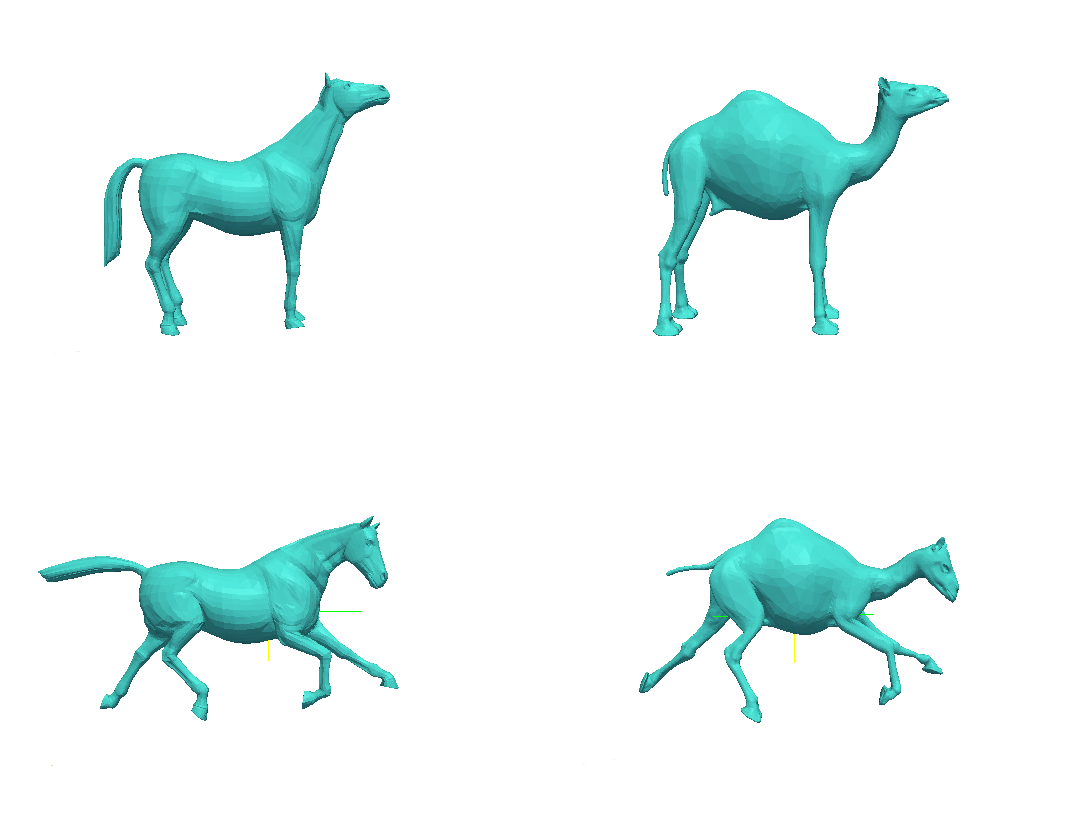
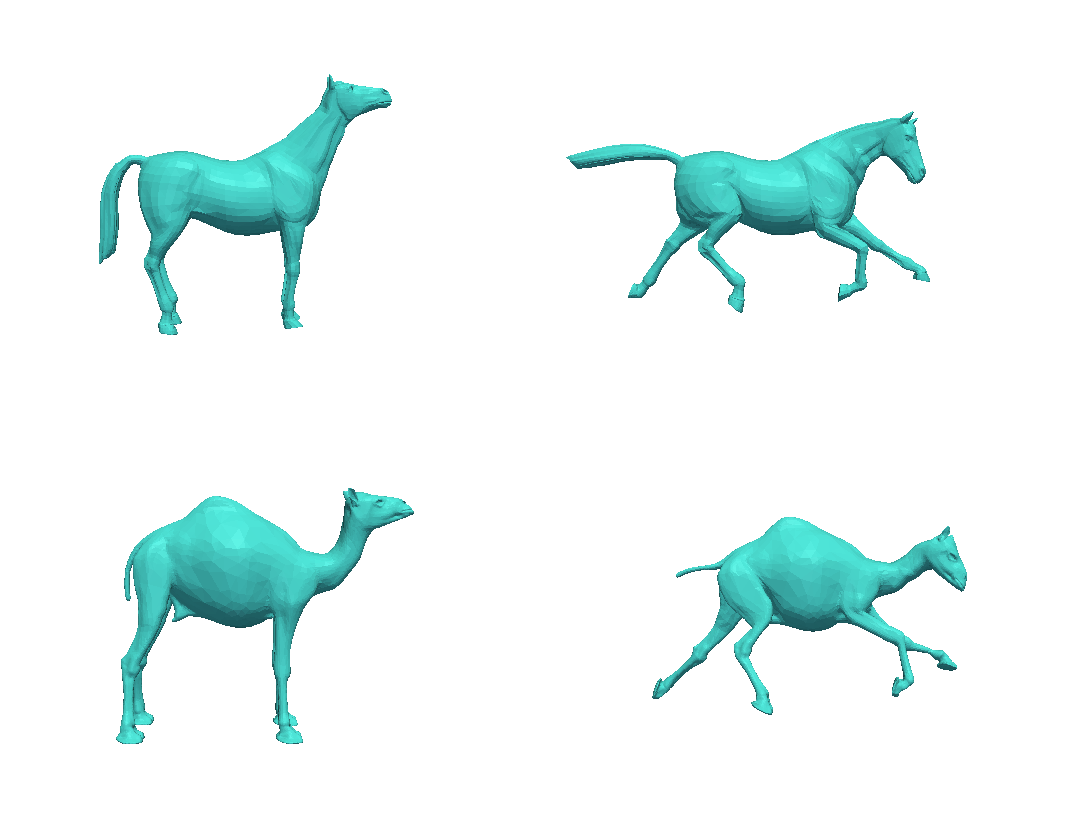
use smaller size images for README

diff --git a/README.md b/README.md
@@ -8,36 +8,36 @@ It's just a spare-time project of my own, consisting of full/partial implementat
 
 [2014-04-18] Implement calculating Green Coordinates in 2D for points inside cage, and slight modification of GC for exterior and boundary points will be included in future, as well as Green Coordinates in 3D.
 
-![image] (/img/green_2d.png)
+![image] (/img/half_size/green_2d.png)
 
 [2015-04-20] Finish Green Coordinates in 3D and up till now [[Lipman08]](http://citeseerx.ist.psu.edu/viewdoc/download?doi=10.1.1.150.2116&rep=rep1&type=pdf) is partially reproducted. The computation for GC  of exterior points of cage may be  included in future, which allows for controlling deformation using a partial cage.
 
-![image] (/img/green_3d.png)
+![image] (/img/half_size/green_3d.png)
 
 [2015-05-22] Partially implement [[Funck06]](https://isgwww.cs.uni-magdeburg.de/visual/files/publications/Archive/Funck_2006_SIGGRAPH.pdf). More modeling metaphors may be included in future.
 
-![image] (/img/vec_deform.png)
+![image] (/img/half_size/vec_deform.png)
 
 [2015-05-27] Implement twisting and bending effects based on vector field.
 
 [2015-06-13] Implement frame-driven deformation proposed by [[Panozzo14]](http://igl.ethz.ch/projects/frame-fields/frame-fields.pdf). The other part about frame-field aligned quadrangulation may included later, which consistis of processes to paramterize and remesh the deformed surface for obtaining a uniform quadrilateral mesh.
 
-![image] (/img/frame_field_deform.png)
+![image] (/img/half_size/frame_field_deform.png)
 
 [2015-06-25] Implement deformation transfer for triangle meshes [[Sumner04]](http://people.csail.mit.edu/sumner/research/deftransfer/Sumner2004DTF.pdf), which uses gradient based deformation method.
 
-![image] (/img/deformation_transfer.png)
+![image] (/img/half_size/deformation_transfer.png)
 
 [2015-07-01] Implement another method for solving triangle correspondence guided by harmonic fields in deformation transfer, which is proposed by [[Zayer05]](http://citeseerx.ist.psu.edu/viewdoc/download?doi=10.1.1.226.1150&rep=rep1&type=pdf).
 
 [2015-08-27] Implement construction of standing wave on surface proposed by [[Zhang10]](http://www.cad.zju.edu.cn/home/hj/10/Huang10WaveQuad.pdf).
 
-![image] (/img/wave.png)
+![image] (/img/half_size/.png)
 
 [2015-12-01] Implement a 3D bounded distortion solver according to [[Kovalsky15]](http://www.wisdom.weizmann.ac.il/~ylipman/2015_LargeScaleBD.pdf).
 
-![image] (/img/bounded_distortion.png)
+![image] (/img/half_size/bounded_distortion.png)
 
 [2016-01-03] Implement spin transformations without considering boundary conditions [[Crane11]](http://www.cs.columbia.edu/~keenan/Projects/SpinTransformations/paper.pdf).
 
-![image] (/img/spin.png)
+![image] (/img/half_size/spin.png)
